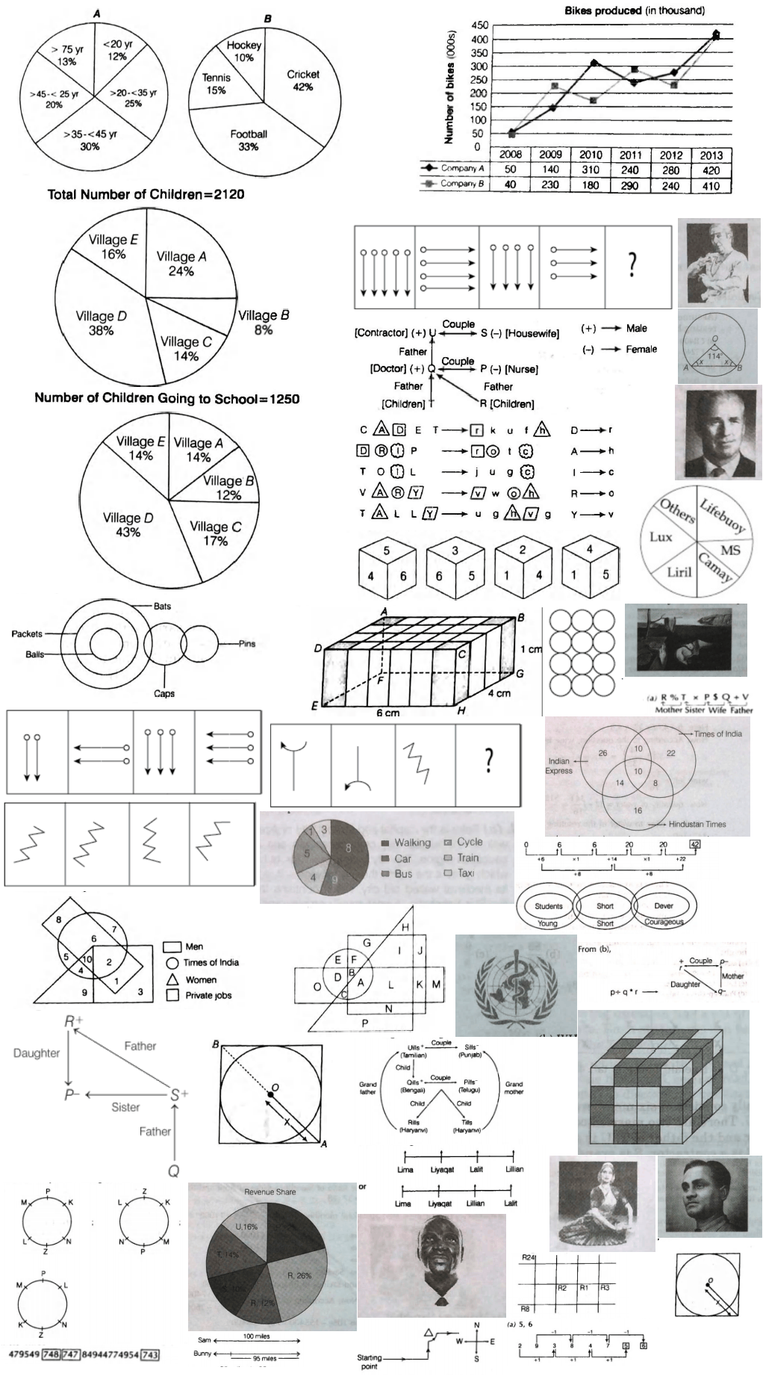
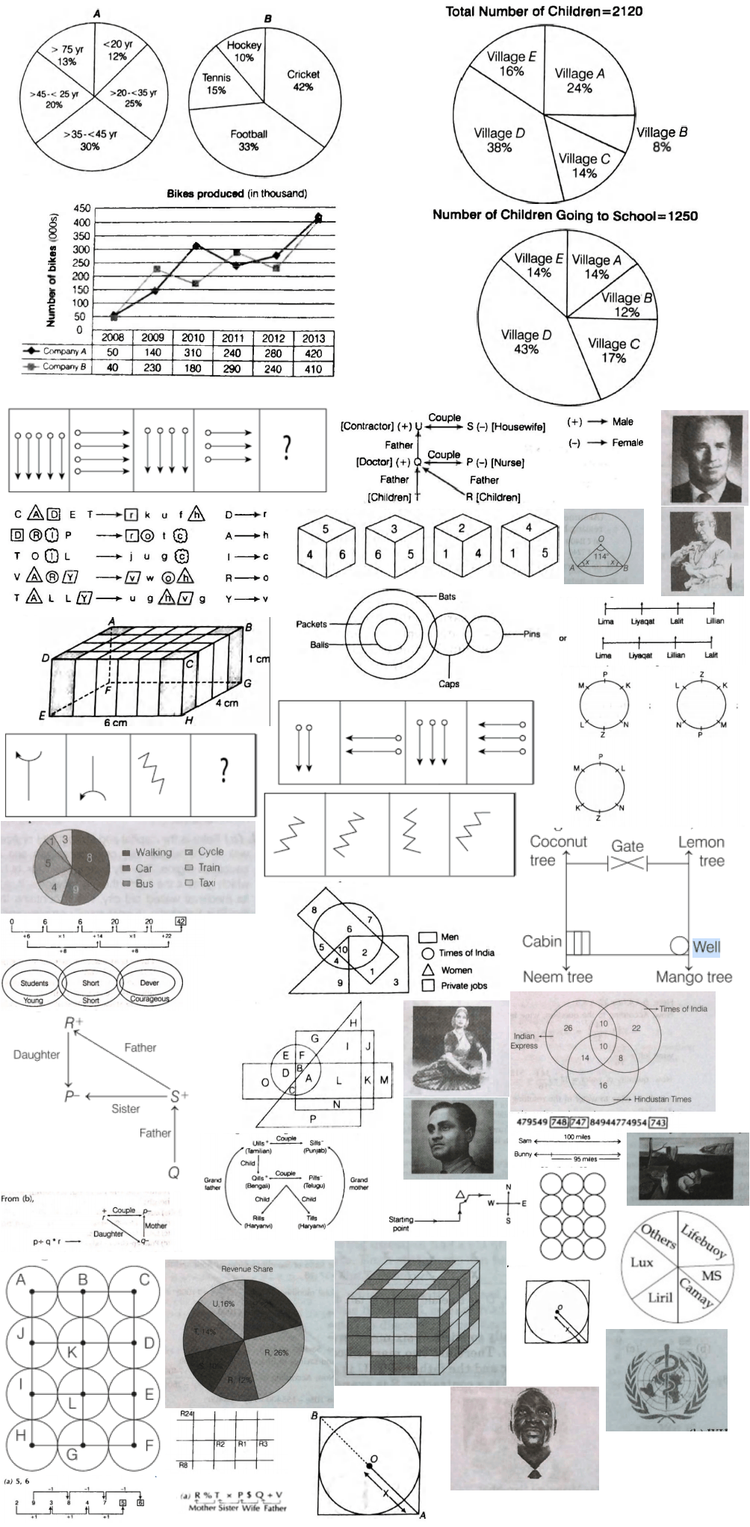
CMAT images update.d

diff --git a/img/mba/cmat/prev/set1.css b/img/mba/cmat/prev/set1.css
@@ -8,133 +8,139 @@ Responsive: <div class="yourspritesname"></div>
 
 
 .CM_2019_Logical_Reasoning_12 {max-width:443px; max-height:131px; }
-.CM_2019_Logical_Reasoning_12::after {content: '\00a0';display: inline-block; width:443px; height:131px; background-position: 80.13816925734024% 17.06604324956166%;background-size: 230.6997742663657% 1406.1068702290077%;background-image: url(set1.png);padding: 0; }
+.CM_2019_Logical_Reasoning_12::after {content: '\00a0';display: inline-block; width:443px; height:131px; background-position: 0.17825311942959002% 28.07109252483011%;background-size: 226.63656884875846% 1560.3053435114505%;background-image: url(set1.png);padding: 0; }
 div.CM_2019_Logical_Reasoning_12::after {max-width:443px; width:100%;height:0;padding: 0 0 29.571106094808126% 0;}
 .CM_2019_Logical_Reasoning_12_1 {max-width:354px; max-height:126px; }
-.CM_2019_Logical_Reasoning_12_1::after {content: '\00a0';display: inline-block; width:354px; height:126px; background-position: 0.1497005988023952% 54.95337995337995%;background-size: 288.7005649717514% 1461.904761904762%;background-image: url(set1.png);padding: 0; }
+.CM_2019_Logical_Reasoning_12_1::after {content: '\00a0';display: inline-block; width:354px; height:126px; background-position: 56.15384615384615% 48.488008342022944%;background-size: 283.61581920903956% 1622.2222222222222%;background-image: url(set1.png);padding: 0; }
 div.CM_2019_Logical_Reasoning_12_1::after {max-width:354px; width:100%;height:0;padding: 0 0 35.59322033898305% 0;}
 .CM_2019_Logical_Reasoning_2 {max-width:101px; max-height:129px; }
-.CM_2019_Logical_Reasoning_2::after {content: '\00a0';display: inline-block; width:101px; height:129px; background-position: 79.26167209554832% 47.285464098073554%;background-size: 1011.8811881188119% 1427.906976744186%;background-image: url(set1.png);padding: 0; }
+.CM_2019_Logical_Reasoning_2::after {content: '\00a0';display: inline-block; width:101px; height:129px; background-position: 79.40199335548172% 81.6710182767624%;background-size: 994.059405940594% 1584.4961240310076%;background-image: url(set1.png);padding: 0; }
 div.CM_2019_Logical_Reasoning_2::after {max-width:101px; width:100%;height:0;padding: 0 0 127.72277227722772% 0;}
 .CM_2019_Logical_Reasoning_25 {max-width:347px; max-height:121px; }
-.CM_2019_Logical_Reasoning_25::after {content: '\00a0';display: inline-block; width:347px; height:121px; background-position: 52.74074074074074% 56.01394538059268%;background-size: 294.5244956772334% 1522.314049586777%;background-image: url(set1.png);padding: 0; }
+.CM_2019_Logical_Reasoning_25::after {content: '\00a0';display: inline-block; width:347px; height:121px; background-position: 0.15220700152207% 50.80603224128965%;background-size: 289.3371757925072% 1689.2561983471073%;background-image: url(set1.png);padding: 0; }
 div.CM_2019_Logical_Reasoning_25::after {max-width:347px; width:100%;height:0;padding: 0 0 34.87031700288185% 0;}
 .CM_2019_Logical_Reasoning_25_1 {max-width:346px; max-height:122px; }
-.CM_2019_Logical_Reasoning_25_1::after {content: '\00a0';display: inline-block; width:346px; height:122px; background-position: 0.14792899408284024% 62.2093023255814%;background-size: 295.3757225433526% 1509.8360655737704%;background-image: url(set1.png);padding: 0; }
+.CM_2019_Logical_Reasoning_25_1::after {content: '\00a0';display: inline-block; width:346px; height:122px; background-position: 53.03951367781155% 54.994797086368365%;background-size: 290.1734104046243% 1675.4098360655737%;background-image: url(set1.png);padding: 0; }
 div.CM_2019_Logical_Reasoning_25_1::after {max-width:346px; width:100%;height:0;padding: 0 0 35.26011560693642% 0;}
+.CM_2019_Logical_Reasoning_2_sol {max-width:219px; max-height:288px; }
+.CM_2019_Logical_Reasoning_2_sol::after {content: '\00a0';display: inline-block; width:219px; height:288px; background-position: 0.12738853503184713% 96.01366742596811%;background-size: 458.4474885844749% 709.7222222222222%;background-image: url(set1.png);padding: 0; }
+div.CM_2019_Logical_Reasoning_2_sol::after {max-width:219px; width:100%;height:0;padding: 0 0 131.5068493150685% 0;}
 .CM_2019_Quantitative_Techniques_10 {max-width:170px; max-height:163px; }
-.CM_2019_Quantitative_Techniques_10::after {content: '\00a0';display: inline-block; width:170px; height:163px; background-position: 99.17840375586854% 38.35616438356164%;background-size: 601.1764705882352% 1130.0613496932515%;background-image: url(set1.png);padding: 0; }
+.CM_2019_Quantitative_Techniques_10::after {content: '\00a0';display: inline-block; width:170px; height:163px; background-position: 98.20143884892086% 85.85858585858585%;background-size: 590.5882352941177% 1253.9877300613498%;background-image: url(set1.png);padding: 0; }
 div.CM_2019_Quantitative_Techniques_10::after {max-width:170px; width:100%;height:0;padding: 0 0 95.88235294117646% 0;}
 .cmat_2016_ga_100 {max-width:111px; max-height:120px; }
-.cmat_2016_ga_100::after {content: '\00a0';display: inline-block; width:111px; height:120px; background-position: 99.67069154774973% 16.957026713124275%;background-size: 920.7207207207207% 1535%;background-image: url(set1.png);padding: 0; }
+.cmat_2016_ga_100::after {content: '\00a0';display: inline-block; width:111px; height:120px; background-position: 99.10414333706606% 35.23908523908524%;background-size: 904.5045045045046% 1703.3333333333333%;background-image: url(set1.png);padding: 0; }
 div.cmat_2016_ga_100::after {max-width:111px; width:100%;height:0;padding: 0 0 108.10810810810811% 0;}
 .cmat_2016_ga_78 {max-width:117px; max-height:128px; }
-.cmat_2016_ga_78::after {content: '\00a0';display: inline-block; width:117px; height:128px; background-position: 99.88950276243094% 30.04667444574096%;background-size: 873.5042735042736% 1439.0625%;background-image: url(set1.png);padding: 0; }
+.cmat_2016_ga_78::after {content: '\00a0';display: inline-block; width:117px; height:128px; background-position: 99.77452085682074% 28.653444676409187%;background-size: 858.1196581196581% 1596.875%;background-image: url(set1.png);padding: 0; }
 div.cmat_2016_ga_78::after {max-width:117px; width:100%;height:0;padding: 0 0 109.4017094017094% 0;}
 .cmat_2016_ga_85 {max-width:163px; max-height:137px; }
-.cmat_2016_ga_85::after {content: '\00a0';display: inline-block; width:163px; height:137px; background-position: 71.0128055878929% 73.37243401759531%;background-size: 626.9938650306749% 1344.5255474452554%;background-image: url(set1.png);padding: 0; }
+.cmat_2016_ga_85::after {content: '\00a0';display: inline-block; width:163px; height:137px; background-position: 96.43281807372176% 93.28788673308863%;background-size: 615.9509202453987% 1491.970802919708%;background-image: url(set1.png);padding: 0; }
 div.cmat_2016_ga_85::after {max-width:163px; width:100%;height:0;padding: 0 0 84.04907975460122% 0;}
 .cmat_2016_ga_94 {max-width:142px; max-height:129px; }
-.cmat_2016_ga_94::after {content: '\00a0';display: inline-block; width:142px; height:129px; background-position: 83.63636363636364% 90.30939871570344%;background-size: 719.7183098591549% 1427.906976744186%;background-image: url(set1.png);padding: 0; }
+.cmat_2016_ga_94::after {content: '\00a0';display: inline-block; width:142px; height:129px; background-position: 62.64501160092807% 69.92167101827677%;background-size: 707.0422535211268% 1584.4961240310076%;background-image: url(set1.png);padding: 0; }
 div.cmat_2016_ga_94::after {max-width:142px; width:100%;height:0;padding: 0 0 90.84507042253522% 0;}
 .cmat_2016_ga_98 {max-width:199px; max-height:139px; }
-.cmat_2016_ga_98::after {content: '\00a0';display: inline-block; width:199px; height:139px; background-position: 58.201701093560146% 95.41984732824427%;background-size: 513.5678391959799% 1325.179856115108%;background-image: url(set1.png);padding: 0; }
+.cmat_2016_ga_98::after {content: '\00a0';display: inline-block; width:199px; height:139px; background-position: 74.90683229813665% 97.42782152230971%;background-size: 504.52261306532665% 1470.5035971223022%;background-image: url(set1.png);padding: 0; }
 div.cmat_2016_ga_98::after {max-width:199px; width:100%;height:0;padding: 0 0 69.84924623115577% 0;}
 .cmat_2016_lr_29 {max-width:372px; max-height:99px; }
-.cmat_2016_lr_29::after {content: '\00a0';display: inline-block; width:372px; height:99px; background-position: 71.38461538461539% 40.73436603557086%;background-size: 274.73118279569894% 1860.6060606060605%;background-image: url(set1.png);padding: 0; }
+.cmat_2016_lr_29::after {content: '\00a0';display: inline-block; width:372px; height:99px; background-position: 60.44303797468354% 35.012853470437015%;background-size: 269.89247311827955% 2064.6464646464647%;background-image: url(set1.png);padding: 0; }
 div.cmat_2016_lr_29::after {max-width:372px; width:100%;height:0;padding: 0 0 26.612903225806452% 0;}
 .cmat_2016_lr_30_para {max-width:268px; max-height:177px; }
-.cmat_2016_lr_30_para::after {content: '\00a0';display: inline-block; width:268px; height:177px; background-position: 45.225464190981434% 72.73273273273273%;background-size: 381.34328358208955% 1040.677966101695%;background-image: url(set1.png);padding: 0; }
+.cmat_2016_lr_30_para::after {content: '\00a0';display: inline-block; width:268px; height:177px; background-position: 36.82065217391305% 71.71933583288698%;background-size: 374.6268656716418% 1154.8022598870057%;background-image: url(set1.png);padding: 0; }
 div.cmat_2016_lr_30_para::after {max-width:268px; width:100%;height:0;padding: 0 0 66.04477611940298% 0;}
 .cmat_2016_qt_12_para {max-width:481px; max-height:290px; }
-.cmat_2016_qt_12_para::after {content: '\00a0';display: inline-block; width:481px; height:290px; background-position: 98.70609981515712% 0.06443298969072164%;background-size: 212.47401247401248% 635.1724137931035%;background-image: url(set1.png);padding: 0; }
+.cmat_2016_qt_12_para::after {content: '\00a0';display: inline-block; width:481px; height:290px; background-position: 0.19120458891013384% 14.025085518814139%;background-size: 208.73180873180874% 704.8275862068965%;background-image: url(set1.png);padding: 0; }
 div.cmat_2016_qt_12_para::after {max-width:481px; width:100%;height:0;padding: 0 0 60.29106029106029% 0;}
 .cmat_2016_qt_14sol {max-width:157px; max-height:47px; }
-.cmat_2016_qt_14sol::after {content: '\00a0';display: inline-block; width:157px; height:47px; background-position: 29.13294797687861% 99.33147632311977%;background-size: 650.9554140127389% 3919.148936170213%;background-image: url(set1.png);padding: 0; }
+.cmat_2016_qt_14sol::after {content: '\00a0';display: inline-block; width:157px; height:47px; background-position: 80.40141676505313% 75.91387080620932%;background-size: 639.4904458598726% 4348.936170212766%;background-image: url(set1.png);padding: 0; }
 div.cmat_2016_qt_14sol::after {max-width:157px; width:100%;height:0;padding: 0 0 29.936305732484076% 0;}
 .cmat_2016_qt_2 {max-width:532px; max-height:244px; }
-.cmat_2016_qt_2::after {content: '\00a0';display: inline-block; width:532px; height:244px; background-position: 0.20408163265306123% 0.0625782227784731%;background-size: 192.10526315789474% 754.9180327868852%;background-image: url(set1.png);padding: 0; }
+.cmat_2016_qt_2::after {content: '\00a0';display: inline-block; width:532px; height:244px; background-position: 0.211864406779661% 0.05555555555555555%;background-size: 188.7218045112782% 837.7049180327868%;background-image: url(set1.png);padding: 0; }
 div.cmat_2016_qt_2::after {max-width:532px; width:100%;height:0;padding: 0 0 45.86466165413534% 0;}
 .cmat_2016_qt_21 {max-width:341px; max-height:124px; }
-.cmat_2016_qt_21::after {content: '\00a0';display: inline-block; width:341px; height:124px; background-position: 51.10132158590309% 63.21303841676368%;background-size: 299.7067448680352% 1485.483870967742%;background-image: url(set1.png);padding: 0; }
+.cmat_2016_qt_21::after {content: '\00a0';display: inline-block; width:341px; height:124px; background-position: 0.15082956259426847% 57.239583333333336%;background-size: 294.42815249266863% 1648.3870967741937%;background-image: url(set1.png);padding: 0; }
 div.cmat_2016_qt_21::after {max-width:341px; width:100%;height:0;padding: 0 0 36.36363636363637% 0;}
 .cmat_2017_lr_27 {max-width:339px; max-height:158px; }
-.cmat_2017_lr_27::after {content: '\00a0';display: inline-block; width:339px; height:158px; background-position: 0.14641288433382138% 70.84323040380048%;background-size: 301.47492625368733% 1165.8227848101267%;background-image: url(set1.png);padding: 0; }
+.cmat_2017_lr_27::after {content: '\00a0';display: inline-block; width:339px; height:158px; background-position: 51.578947368421055% 62.56627783669141%;background-size: 296.165191740413% 1293.6708860759493%;background-image: url(set1.png);padding: 0; }
 div.cmat_2017_lr_27::after {max-width:339px; width:100%;height:0;padding: 0 0 46.607669616519175% 0;}
 .cmat_2017_lr_32sol {max-width:187px; max-height:51px; }
-.cmat_2017_lr_32sol::after {content: '\00a0';display: inline-block; width:187px; height:51px; background-position: 99.64071856287426% 50.64209938581798%;background-size: 546.524064171123% 3611.764705882353%;background-image: url(set1.png);padding: 0; }
+.cmat_2017_lr_32sol::after {content: '\00a0';display: inline-block; width:187px; height:51px; background-position: 25.336597307221542% 99.09683893627697%;background-size: 536.8983957219251% 4007.843137254902%;background-image: url(set1.png);padding: 0; }
 div.cmat_2017_lr_32sol::after {max-width:187px; width:100%;height:0;padding: 0 0 27.272727272727273% 0;}
 .cmat_2017_lr_36sol {max-width:364px; max-height:148px; }
-.cmat_2017_lr_36sol::after {content: '\00a0';display: inline-block; width:364px; height:148px; background-position: 0.1519756838905775% 46.871310507674146%;background-size: 280.7692307692308% 1244.5945945945946%;background-image: url(set1.png);padding: 0; }
+.cmat_2017_lr_36sol::after {content: '\00a0';display: inline-block; width:364px; height:148px; background-position: 59.6875% 41.19198312236287%;background-size: 275.8241758241758% 1381.081081081081%;background-image: url(set1.png);padding: 0; }
 div.cmat_2017_lr_36sol::after {max-width:364px; width:100%;height:0;padding: 0 0 40.65934065934066% 0;}
 .cmat_2017_lr_41sol {max-width:380px; max-height:153px; }
-.cmat_2017_lr_41sol::after {content: '\00a0';display: inline-block; width:380px; height:153px; background-position: 72.27414330218069% 32.91888691533452%;background-size: 268.94736842105266% 1203.921568627451%;background-image: url(set1.png);padding: 0; }
+.cmat_2017_lr_41sol::after {content: '\00a0';display: inline-block; width:380px; height:153px; background-position: 0.16025641025641027% 35.37810682178741%;background-size: 264.2105263157895% 1335.9477124183006%;background-image: url(set1.png);padding: 0; }
 div.cmat_2017_lr_41sol::after {max-width:380px; width:100%;height:0;padding: 0 0 40.26315789473684% 0;}
 .cmat_2017_lr_43sol {max-width:230px; max-height:194px; }
-.cmat_2017_lr_43sol::after {content: '\00a0';display: inline-block; width:230px; height:194px; background-position: 97.72727272727273% 82.03883495145631%;background-size: 444.3478260869565% 949.4845360824743%;background-image: url(set1.png);padding: 0; }
+.cmat_2017_lr_43sol::after {content: '\00a0';display: inline-block; width:230px; height:194px; background-position: 57.88113695090439% 89.78378378378379%;background-size: 436.5217391304348% 1053.6082474226805%;background-image: url(set1.png);padding: 0; }
 div.cmat_2017_lr_43sol::after {max-width:230px; width:100%;height:0;padding: 0 0 84.34782608695652% 0;}
 .cmat_2017_lr_47sol {max-width:238px; max-height:26px; }
-.cmat_2017_lr_47sol::after {content: '\00a0';display: inline-block; width:238px; height:26px; background-position: 0.12755102040816327% 99.11894273127753%;background-size: 429.4117647058824% 7084.615384615385%;background-image: url(set1.png);padding: 0; }
+.cmat_2017_lr_47sol::after {content: '\00a0';display: inline-block; width:238px; height:26px; background-position: 88.90339425587467% 73.78592666005946%;background-size: 421.8487394957983% 7861.538461538462%;background-image: url(set1.png);padding: 0; }
 div.cmat_2017_lr_47sol::after {max-width:238px; width:100%;height:0;padding: 0 0 10.92436974789916% 0;}
 .cmat_2017_lr_48sol {max-width:363px; max-height:153px; }
-.cmat_2017_lr_48sol::after {content: '\00a0';display: inline-block; width:363px; height:153px; background-position: 55.53869499241274% 47.95737122557726%;background-size: 281.5426997245179% 1203.921568627451%;background-image: url(set1.png);padding: 0; }
+.cmat_2017_lr_48sol::after {content: '\00a0';display: inline-block; width:363px; height:153px; background-position: 0.15600624024961% 43.521946060285565%;background-size: 276.58402203856747% 1335.9477124183006%;background-image: url(set1.png);padding: 0; }
 div.cmat_2017_lr_48sol::after {max-width:363px; width:100%;height:0;padding: 0 0 42.14876033057851% 0;}
 .cmat_2017_lr_50sol {max-width:439px; max-height:131px; }
-.cmat_2017_lr_50sol::after {content: '\00a0';display: inline-block; width:439px; height:131px; background-position: 79.58833619210978% 24.78082992402104%;background-size: 232.8018223234624% 1406.1068702290077%;background-image: url(set1.png);padding: 0; }
+.cmat_2017_lr_50sol::after {content: '\00a0';display: inline-block; width:439px; height:131px; background-position: 78.76106194690266% 28.698379508625194%;background-size: 228.7015945330296% 1560.3053435114505%;background-image: url(set1.png);padding: 0; }
 div.cmat_2017_lr_50sol::after {max-width:439px; width:100%;height:0;padding: 0 0 29.840546697038725% 0;}
 .cmat_2017_qt_14sol {max-width:205px; max-height:64px; }
-.cmat_2017_qt_14sol::after {content: '\00a0';display: inline-block; width:205px; height:64px; background-position: 82.61933904528763% 99.26884139482564%;background-size: 498.5365853658537% 2878.125%;background-image: url(set1.png);padding: 0; }
+.cmat_2017_qt_14sol::after {content: '\00a0';display: inline-block; width:205px; height:64px; background-position: 0.1251564455569462% 99.74747474747475%;background-size: 489.7560975609756% 3193.75%;background-image: url(set1.png);padding: 0; }
 div.cmat_2017_qt_14sol::after {max-width:205px; width:100%;height:0;padding: 0 0 31.21951219512195% 0;}
 .cmat_2017_qt_25 {max-width:462px; max-height:547px; }
-.cmat_2017_qt_25::after {content: '\00a0';display: inline-block; width:462px; height:547px; background-position: 0.17857142857142858% 18.996138996138995%;background-size: 221.21212121212122% 336.74588665447897%;background-image: url(set1.png);padding: 0; }
+.cmat_2017_qt_25::after {content: '\00a0';display: inline-block; width:462px; height:547px; background-position: 98.5239852398524% 0.06680026720106881%;background-size: 217.3160173160173% 373.6745886654479%;background-image: url(set1.png);padding: 0; }
 div.cmat_2017_qt_25::after {max-width:462px; width:100%;height:0;padding: 0 0 118.3982683982684% 0;}
 .cmat_2017_qt_8 {max-width:131px; max-height:124px; }
-.cmat_2017_qt_8::after {content: '\00a0';display: inline-block; width:131px; height:124px; background-position: 98.87766554433222% 96.50756693830034%;background-size: 780.1526717557252% 1485.483870967742%;background-image: url(set1.png);padding: 0; }
+.cmat_2017_qt_8::after {content: '\00a0';display: inline-block; width:131px; height:124px; background-position: 77.77777777777777% 88.22916666666667%;background-size: 766.412213740458% 1648.3870967741937%;background-image: url(set1.png);padding: 0; }
 div.cmat_2017_qt_8::after {max-width:131px; width:100%;height:0;padding: 0 0 94.65648854961832% 0;}
 .cmat_2017_qt_8sol {max-width:207px; max-height:157px; }
-.cmat_2017_qt_8sol::after {content: '\00a0';display: inline-block; width:207px; height:157px; background-position: 32.26993865030675% 82.43323442136499%;background-size: 493.719806763285% 1173.248407643312%;background-image: url(set1.png);padding: 0; }
+.cmat_2017_qt_8sol::after {content: '\00a0';display: inline-block; width:207px; height:157px; background-position: 49.56085319949812% 99.94700582935877%;background-size: 485.02415458937196% 1301.9108280254777%;background-image: url(set1.png);padding: 0; }
 div.cmat_2017_qt_8sol::after {max-width:207px; width:100%;height:0;padding: 0 0 75.84541062801932% 0;}
 .cmat_2018_ga_80 {max-width:164px; max-height:98px; }
-.cmat_2018_ga_80::after {content: '\00a0';display: inline-block; width:164px; height:98px; background-position: 97.55244755244755% 46.330275229357795%;background-size: 623.170731707317% 1879.591836734694%;background-image: url(set1.png);padding: 0; }
+.cmat_2018_ga_80::after {content: '\00a0';display: inline-block; width:164px; height:98px; background-position: 99.88095238095238% 77.90339157245631%;background-size: 612.1951219512196% 2085.714285714286%;background-image: url(set1.png);padding: 0; }
 div.cmat_2018_ga_80::after {max-width:164px; width:100%;height:0;padding: 0 0 59.75609756097561% 0;}
 .cmat_2018_ga_84 {max-width:140px; max-height:110px; }
-.cmat_2018_ga_84::after {content: '\00a0';display: inline-block; width:140px; height:110px; background-position: 99.88662131519274% 89.31870669745959%;background-size: 730% 1674.5454545454545%;background-image: url(set1.png);padding: 0; }
+.cmat_2018_ga_84::after {content: '\00a0';display: inline-block; width:140px; height:110px; background-position: 62.5% 75.95656670113753%;background-size: 717.1428571428571% 1858.1818181818182%;background-image: url(set1.png);padding: 0; }
 div.cmat_2018_ga_84::after {max-width:140px; width:100%;height:0;padding: 0 0 78.57142857142857% 0;}
 .cmat_2018_lr_27sol {max-width:257px; max-height:143px; }
-.cmat_2018_lr_27sol::after {content: '\00a0';display: inline-block; width:257px; height:143px; background-position: 61.568627450980394% 81.75397292525015%;background-size: 397.6653696498054% 1288.1118881118882%;background-image: url(set1.png);padding: 0; }
+.cmat_2018_lr_27sol::after {content: '\00a0';display: inline-block; width:257px; height:143px; background-position: 35.20749665327978% 79.80010520778538%;background-size: 390.66147859922177% 1429.3706293706293%;background-image: url(set1.png);padding: 0; }
 div.cmat_2018_lr_27sol::after {max-width:257px; width:100%;height:0;padding: 0 0 55.6420233463035% 0;}
 .cmat_2018_lr_29sol {max-width:250px; max-height:216px; }
-.cmat_2018_lr_29sol::after {content: '\00a0';display: inline-block; width:250px; height:216px; background-position: 0.12953367875647667% 97.35547355473555%;background-size: 408.8% 852.7777777777778%;background-image: url(set1.png);padding: 0; }
+.cmat_2018_lr_29sol::after {content: '\00a0';display: inline-block; width:250px; height:216px; background-position: 99.07161803713528% 48.7417943107221%;background-size: 401.6% 946.2962962962963%;background-image: url(set1.png);padding: 0; }
 div.cmat_2018_lr_29sol::after {max-width:250px; width:100%;height:0;padding: 0 0 86.4% 0;}
 .cmat_2018_lr_32sol {max-width:195px; max-height:76px; }
-.cmat_2018_lr_32sol::after {content: '\00a0';display: inline-block; width:195px; height:76px; background-position: 57.92019347037485% 99.94337485843715%;background-size: 524.1025641025641% 2423.684210526316%;background-image: url(set1.png);padding: 0; }
+.cmat_2018_lr_32sol::after {content: '\00a0';display: inline-block; width:195px; height:76px; background-position: 64.40049443757725% 80.28455284552845%;background-size: 514.8717948717949% 2689.4736842105262%;background-image: url(set1.png);padding: 0; }
 div.cmat_2018_lr_32sol::after {max-width:195px; width:100%;height:0;padding: 0 0 38.97435897435897% 0;}
 .cmat_2018_lr_33sol {max-width:164px; max-height:87px; }
-.cmat_2018_lr_33sol::after {content: '\00a0';display: inline-block; width:164px; height:87px; background-position: 79.13752913752914% 95.55555555555556%;background-size: 623.170731707317% 2117.2413793103447%;background-image: url(set1.png);padding: 0; }
+.cmat_2018_lr_33sol::after {content: '\00a0';display: inline-block; width:164px; height:87px; background-position: 26.30952380952381% 96.37199795605518%;background-size: 612.1951219512196% 2349.425287356322%;background-image: url(set1.png);padding: 0; }
 div.cmat_2018_lr_33sol::after {max-width:164px; width:100%;height:0;padding: 0 0 53.048780487804876% 0;}
 .cmat_2018_lr_37sol {max-width:243px; max-height:100px; }
-.cmat_2018_lr_37sol::after {content: '\00a0';display: inline-block; width:243px; height:100px; background-position: 99.3581514762516% 71.81400688863376%;background-size: 420.5761316872428% 1842%;background-image: url(set1.png);padding: 0; }
+.cmat_2018_lr_37sol::after {content: '\00a0';display: inline-block; width:243px; height:100px; background-position: 0.1314060446780552% 81.53292181069959%;background-size: 413.1687242798354% 2044%;background-image: url(set1.png);padding: 0; }
 div.cmat_2018_lr_37sol::after {max-width:243px; width:100%;height:0;padding: 0 0 41.1522633744856% 0;}
 .cmat_2018_lr_40sol {max-width:269px; max-height:70px; }
-.cmat_2018_lr_40sol::after {content: '\00a0';display: inline-block; width:269px; height:70px; background-position: 91.63346613545816% 66.59142212189616%;background-size: 379.9256505576208% 2631.4285714285716%;background-image: url(set1.png);padding: 0; }
+.cmat_2018_lr_40sol::after {content: '\00a0';display: inline-block; width:269px; height:70px; background-position: 0.1360544217687075% 64.99493414387031%;background-size: 373.2342007434944% 2920%;background-image: url(set1.png);padding: 0; }
 div.cmat_2018_lr_40sol::after {max-width:269px; width:100%;height:0;padding: 0 0 26.022304832713754% 0;}
 .cmat_2018_lr_44sol {max-width:256px; max-height:91px; }
-.cmat_2018_lr_44sol::after {content: '\00a0';display: inline-block; width:256px; height:91px; background-position: 62.532637075718014% 87.54997144488864%;background-size: 399.21875% 2024.1758241758241%;background-image: url(set1.png);padding: 0; }
+.cmat_2018_lr_44sol::after {content: '\00a0';display: inline-block; width:256px; height:91px; background-position: 99.8663101604278% 40.91141833077317%;background-size: 392.1875% 2246.153846153846%;background-image: url(set1.png);padding: 0; }
 div.cmat_2018_lr_44sol::after {max-width:256px; width:100%;height:0;padding: 0 0 35.546875% 0;}
 .cmat_2018_lr_48sol {max-width:273px; max-height:58px; }
-.cmat_2018_lr_48sol::after {content: '\00a0';display: inline-block; width:273px; height:58px; background-position: 92.12283044058745% 62.836322869955154%;background-size: 374.35897435897436% 3175.862068965517%;background-image: url(set1.png);padding: 0; }
+.cmat_2018_lr_48sol::after {content: '\00a0';display: inline-block; width:273px; height:58px; background-position: 0.13679890560875513% 61.631419939577036%;background-size: 367.76556776556777% 3524.137931034483%;background-image: url(set1.png);padding: 0; }
 div.cmat_2018_lr_48sol::after {max-width:273px; width:100%;height:0;padding: 0 0 21.245421245421245% 0;}
 .cmat_2018_qt_18sol {max-width:275px; max-height:161px; }
-.cmat_2018_qt_18sol::after {content: '\00a0';display: inline-block; width:275px; height:161px; background-position: 97.72423025435073% 57.0493753718025%;background-size: 371.6363636363636% 1144.0993788819876%;background-image: url(set1.png);padding: 0; }
+.cmat_2018_qt_18sol::after {content: '\00a0';display: inline-block; width:275px; height:161px; background-position: 93.68998628257887% 70.47265002655337%;background-size: 365.09090909090907% 1269.5652173913043%;background-image: url(set1.png);padding: 0; }
 div.cmat_2018_qt_18sol::after {max-width:275px; width:100%;height:0;padding: 0 0 58.54545454545455% 0;}
 .cmat_2018_qt_19 {max-width:226px; max-height:199px; }
-.cmat_2018_qt_19::after {content: '\00a0';display: inline-block; width:226px; height:199px; background-position: 31.65829145728643% 96.3481436396835%;background-size: 452.21238938053096% 925.6281407035176%;background-image: url(set1.png);padding: 0; }
+.cmat_2018_qt_19::after {content: '\00a0';display: inline-block; width:226px; height:199px; background-position: 28.40616966580977% 91.3821138211382%;background-size: 444.24778761061947% 1027.1356783919598%;background-image: url(set1.png);padding: 0; }
 div.cmat_2018_qt_19::after {max-width:226px; width:100%;height:0;padding: 0 0 88.05309734513274% 0;}
 .cmat_2018_qt_22sol {max-width:107px; max-height:101px; }
-.cmat_2018_qt_22sol::after {content: '\00a0';display: inline-block; width:107px; height:101px; background-position: 99.23497267759562% 23.721998851234922%;background-size: 955.1401869158879% 1823.7623762376238%;background-image: url(set1.png);padding: 0; }
+.cmat_2018_qt_22sol::after {content: '\00a0';display: inline-block; width:107px; height:101px; background-position: 84.16945373467112% 35.048893463715906%;background-size: 938.3177570093458% 2023.7623762376238%;background-image: url(set1.png);padding: 0; }
 div.cmat_2018_qt_22sol::after {max-width:107px; width:100%;height:0;padding: 0 0 94.39252336448598% 0;}
+.cmat_2019_lr_30sol {max-width:291px; max-height:218px; }
+.cmat_2019_lr_30sol::after {content: '\00a0';display: inline-block; width:291px; height:218px; background-position: 97.61570827489481% 60.67907995618839%;background-size: 345.0171821305842% 937.6146788990826%;background-image: url(set1.png);padding: 0; }
+div.cmat_2019_lr_30sol::after {max-width:291px; width:100%;height:0;padding: 0 0 74.91408934707904% 0;}
 .cmat_2019_mt_45sol {max-width:261px; max-height:230px; }
-.cmat_2019_mt_45sol::after {content: '\00a0';display: inline-block; width:261px; height:230px; background-position: 0.1314060446780552% 83.87096774193549%;background-size: 391.57088122605364% 800.8695652173913%;background-image: url(set1.png);padding: 0; }
+.cmat_2019_mt_45sol::after {content: '\00a0';display: inline-block; width:261px; height:230px; background-position: 0.13458950201884254% 74.64167585446528%;background-size: 384.67432950191574% 888.695652173913%;background-image: url(set1.png);padding: 0; }
 div.cmat_2019_mt_45sol::after {max-width:261px; width:100%;height:0;padding: 0 0 88.12260536398468% 0;}
 
-/* $TexturePacker:SmartUpdate:cc8b2c043fdbf201280fd2ede7e697b1:ba1ec29fcd38c91edbb8d8e910350ec7:6079bfabf986316de61e36305cbe76e0$ */
+/* $TexturePacker:SmartUpdate:a60f340183c96c5d3a796549dc722631:1c7bf87b5180297e5c52ca26743ecf94:6079bfabf986316de61e36305cbe76e0$ */
